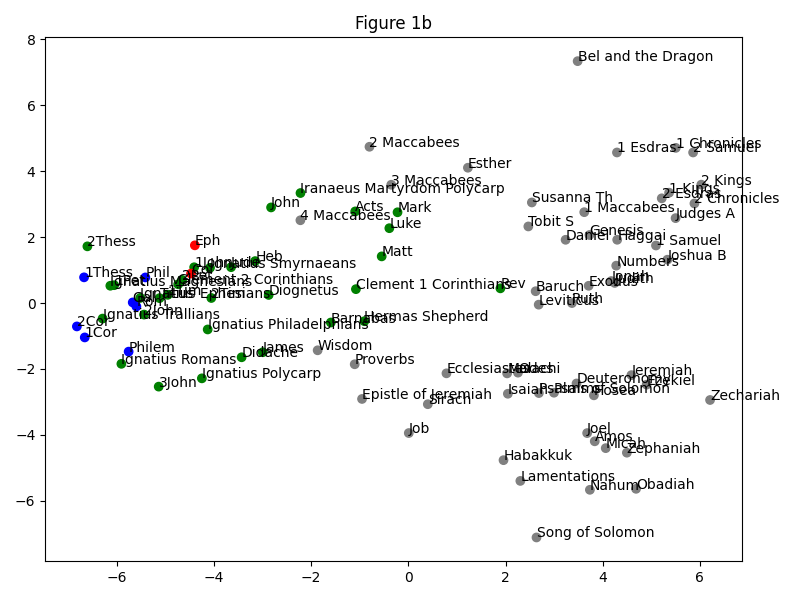
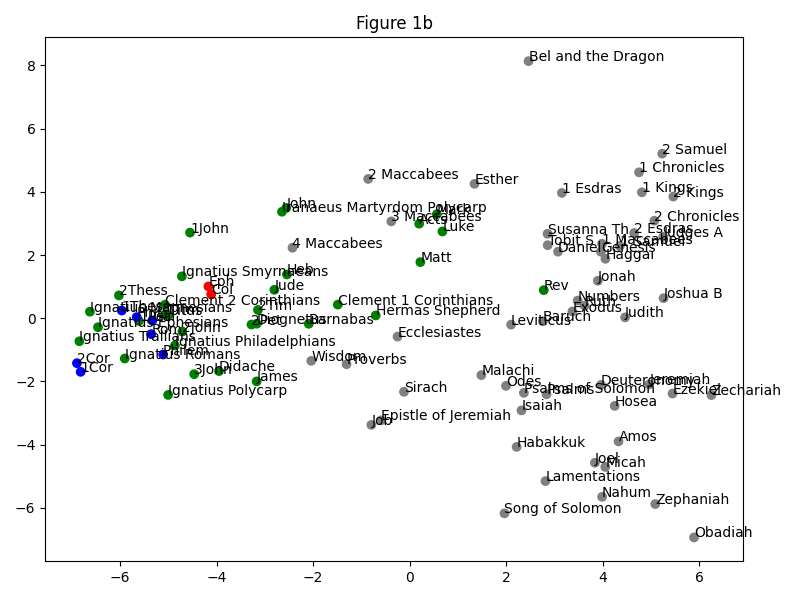
can plot results of analysis with only paul markers

diff --git a/find_paul_markers_1.py b/find_paul_markers_1.py
@@ -17,10 +17,7 @@ for ex_book in excluded_books + excluded_nt_books:
 merge_pauline_texts(book_to_text)
 merge_ignatian_texts(book_to_text)
 
-# removed: 'κύριος', 'εἶπεν', 'ισραηλ', 'κυρίου', 'θεοῦ', 'γῆς', 'θεὸς', 'υἱοὶ', 'ἰδοὺ', 'δαυιδ', 'γῆν', 'υἱὸς', 'βασιλεὺς', 'λέγει', 'ιερουσαλημ', 'βασιλέως', 'υἱῶν', 'κυρίῳ', 'λέγων', 'ἡμέρας', 'ἐγένετο'
-#function_words = ['καὶ', 'ἐν', 'τοῦ', 'ὁ', 'αὐτοῦ', 'εἰς', 'τὸν', 'τὴν', 'τὸ', 'τῷ', 'τῶν', 'δὲ', 'τῆς', 'σου', 'τὰ', 'ἐπὶ', 'οἱ', 'αὐτῶν', 'ὅτι', 'μου', 'ἡ', 'πρὸς', 'τῇ', 'οὐκ', 'τοὺς', 'μὴ', 'ἀπὸ', 'τοῖς', 'ἐκ', 'οὐ', 'αὐτῷ', 'ὡς', 'τὰς', 'αὐτὸν', 'γὰρ', 'ὑμῶν', 'αὐτῆς', 'κατὰ', 'με', 'αὐτοῖς', 'ἡμῶν', 'διὰ', 'μετὰ', 'αὐτοὺς', 'ἐστιν', 'ἐὰν', 'ἕως', 'ἐπ', 'πάντα', 'ἐγὼ', 'ἵνα', 'ἔσται', 'ὑμῖν', 'σε', 'ἢ', 'περὶ', 'τοῦτο', 'σοι', 'ταῖς', 'αἱ', 'εἰ', 'ἐξ', 'ἦν', 'μοι', 'ὑμᾶς', 'οὕτως', 'σὺ', 'οὖν', 'ταῦτα', 'ἐκεῖ', 'μετ', 'ἡμᾶς', 'αὐτόν', 'τί', 'ἀλλὰ', 'νῦν', 'ἔστιν', 'ἂν']
-
-function_words = ['ἔστιν']
+function_words = ['και', 'εν', 'του', 'ο', 'αυτου', 'εις', 'τον', 'την', 'το', 'δε', 'τω', 'των', 'της', 'η', 'σου', 'τα', 'επι', 'οι', 'αυτων', 'οτι', 'μου', 'προς', 'τη', 'μη', 'ουκ', 'τους', 'ου', 'απο', 'αυτον', 'τοις', 'εκ', 'αυτω', 'εστιν', 'γαρ', 'ως', 'τας', 'αυτους', 'υμων', 'αυτης', 'κατα', 'αυτοις', 'με', 'ημων', 'σε', 'δια', 'μετα', 'εγω', 'ην', 'εαν', 'ει', 'παντα', 'σοι', 'εως', 'επ', 'ινα', 'εσται', 'τι', 'υμιν', 'εξ', 'αυτην', 'τουτο', 'αι', 'περι', 'αυτη', 'ταις', 'μοι', 'συ', 'υμας', 'ουτως', 'τις', 'ταυτα', 'ουν', 'παντες', 'εκει', 'μετ', 'αλλα', 'ημας']
 
 """
 Let us set the
@@ -31,13 +28,12 @@ bottom six – roughly the top and bottom quartiles – as ‘Hutchinson markers
 and see where these scores lead us.
 """
 
-# TODO PROBLEM: shouldn't be outputting what it's outputting
 def is_paul_marker(books_and_frequencies):
   sorted_books_and_frequencies = sorted(books_and_frequencies, key=lambda x: x[1])
   print('\t', sorted_books_and_frequencies)
 
-  for i in range(1): # TODO BACK TO 5
-    if sorted_books_and_frequencies[i][0] == 'Paul':
+  for i in range(5):
+    if sorted_books_and_frequencies[i][0] == 'Paul': # TODO check if zero?
       return True
     elif sorted_books_and_frequencies[-i - 1][0] == 'Paul':
       return True
@@ -51,9 +47,6 @@ NORMALIZATION_METHOD = 'zscore'
 # and the word index matches the index of the same word in function_words.
 book_to_normalized_word_frequency = calculate_raw_function_word_frequencies(
   book_to_text, function_words)
-
-print(book_to_text.keys())
-print(book_to_normalized_word_frequency)
 
 books = list(book_to_text.keys())
 

diff --git a/principal_component_analysis_3.py b/principal_component_analysis_3.py
@@ -8,10 +8,10 @@ import matplotlib.pyplot as plt
 from sklearn.decomposition import PCA
 
 """
-Generates Figures 2a and 2b for the thesis.
-2a is the influence of the top 99 words on the two principal component vectors,
+Generates Figures 3a and 3b for the thesis.
+3a is the influence of the top 99 words on the two principal component vectors,
   excluding those which are obviously thematic.
-2b is the results of arranging certain books (NT, a few Sept, and others)
+3b is the results of arranging certain books (NT, a few Sept, and others)
   according to those vectors.
 """
 wanted_septuagint_books = ['Epistle of Jeremiah']
@@ -22,10 +22,9 @@ for ex_book in excluded_books + excluded_nt_books:
   book_to_text.pop(ex_book)
 
 rearrange_pauline_texts(book_to_text)
-# merge_colossians_ephesians_texts(book_to_text) not useful
+#merge_colossians_ephesians_texts(book_to_text) #not useful
 
-# removed: 'κύριος', 'εἶπεν', 'ισραηλ', 'κυρίου', 'θεοῦ', 'γῆς', 'θεὸς', 'υἱοὶ', 'ἰδοὺ', 'δαυιδ', 'γῆν', 'υἱὸς', 'βασιλεὺς', 'λέγει', 'ιερουσαλημ', 'βασιλέως', 'υἱῶν', 'κυρίῳ', 'λέγων', 'ἡμέρας', 'ἐγένετο'
-function_words = ['καὶ', 'ἐν', 'τοῦ', 'ὁ', 'αὐτοῦ', 'εἰς', 'τὸν', 'τὴν', 'τὸ', 'τῷ', 'τῶν', 'δὲ', 'τῆς', 'σου', 'τὰ', 'ἐπὶ', 'οἱ', 'αὐτῶν', 'ὅτι', 'μου', 'ἡ', 'πρὸς', 'τῇ', 'οὐκ', 'τοὺς', 'μὴ', 'ἀπὸ', 'τοῖς', 'ἐκ', 'οὐ', 'αὐτῷ', 'ὡς', 'τὰς', 'αὐτὸν', 'γὰρ', 'ὑμῶν', 'αὐτῆς', 'κατὰ', 'με', 'αὐτοῖς', 'ἡμῶν', 'διὰ', 'μετὰ', 'αὐτοὺς', 'ἐστιν', 'ἐὰν', 'ἕως', 'ἐπ', 'πάντα', 'ἐγὼ', 'ἵνα', 'ἔσται', 'ὑμῖν', 'σε', 'ἢ', 'περὶ', 'τοῦτο', 'σοι', 'ταῖς', 'αἱ', 'εἰ', 'ἐξ', 'ἦν', 'μοι', 'ὑμᾶς', 'οὕτως', 'σὺ', 'οὖν', 'ταῦτα', 'ἐκεῖ', 'μετ', 'ἡμᾶς', 'αὐτόν', 'τί', 'ἀλλὰ', 'νῦν', 'ἔστιν', 'ἂν']
+function_words = ['και', 'εν', 'του', 'ο', 'αυτου', 'εις', 'τον', 'την', 'το', 'δε', 'τω', 'των', 'της', 'η', 'σου', 'τα', 'επι', 'οι', 'αυτων', 'οτι', 'μου', 'προς', 'τη', 'μη', 'ουκ', 'τους', 'ου', 'απο', 'αυτον', 'τοις', 'εκ', 'αυτω', 'εστιν', 'γαρ', 'ως', 'τας', 'αυτους', 'υμων', 'αυτης', 'κατα', 'αυτοις', 'με', 'ημων', 'σε', 'δια', 'μετα', 'εγω', 'ην', 'εαν', 'ει', 'παντα', 'σοι', 'εως', 'επ', 'ινα', 'εσται', 'τι', 'υμιν', 'εξ', 'αυτην', 'τουτο', 'αι', 'περι', 'αυτη', 'ταις', 'μοι', 'συ', 'υμας', 'ουτως', 'τις', 'ταυτα', 'ουν', 'παντες', 'εκει', 'μετ', 'αλλα', 'ημας']
 
 NORMALIZATION_METHOD = 'zscore'
 

diff --git a/principal_component_analysis_2.py b/principal_component_analysis_2.py
@@ -21,7 +21,7 @@ for ex_book in excluded_books + excluded_nt_books:
   book_to_text.pop(ex_book)
 
 # removed: 'κύριος', 'εἶπεν', 'ισραηλ', 'κυρίου', 'θεοῦ', 'γῆς', 'θεὸς', 'υἱοὶ', 'ἰδοὺ', 'δαυιδ', 'γῆν', 'υἱὸς', 'βασιλεὺς', 'λέγει', 'ιερουσαλημ', 'βασιλέως', 'υἱῶν', 'κυρίῳ', 'λέγων', 'ἡμέρας', 'ἐγένετο'
-function_words = ['καὶ', 'ἐν', 'τοῦ', 'ὁ', 'αὐτοῦ', 'εἰς', 'τὸν', 'τὴν', 'τὸ', 'τῷ', 'τῶν', 'δὲ', 'τῆς', 'σου', 'τὰ', 'ἐπὶ', 'οἱ', 'αὐτῶν', 'ὅτι', 'μου', 'ἡ', 'πρὸς', 'τῇ', 'οὐκ', 'τοὺς', 'μὴ', 'ἀπὸ', 'τοῖς', 'ἐκ', 'οὐ', 'αὐτῷ', 'ὡς', 'τὰς', 'αὐτὸν', 'γὰρ', 'ὑμῶν', 'αὐτῆς', 'κατὰ', 'με', 'αὐτοῖς', 'ἡμῶν', 'διὰ', 'μετὰ', 'αὐτοὺς', 'ἐστιν', 'ἐὰν', 'ἕως', 'ἐπ', 'πάντα', 'ἐγὼ', 'ἵνα', 'ἔσται', 'ὑμῖν', 'σε', 'ἢ', 'περὶ', 'τοῦτο', 'σοι', 'ταῖς', 'αἱ', 'εἰ', 'ἐξ', 'ἦν', 'μοι', 'ὑμᾶς', 'οὕτως', 'σὺ', 'οὖν', 'ταῦτα', 'ἐκεῖ', 'μετ', 'ἡμᾶς', 'αὐτόν', 'τί', 'ἀλλὰ', 'νῦν', 'ἔστιν', 'ἂν']
+function_words = ['και', 'εν', 'του', 'ο', 'αυτου', 'εις', 'τον', 'την', 'το', 'δε', 'τω', 'των', 'της', 'η', 'σου', 'τα', 'επι', 'οι', 'αυτων', 'οτι', 'μου', 'προς', 'τη', 'μη', 'ουκ', 'τους', 'ου', 'απο', 'αυτον', 'τοις', 'εκ', 'αυτω', 'εστιν', 'γαρ', 'ως', 'τας', 'αυτους', 'υμων', 'αυτης', 'κατα', 'αυτοις', 'με', 'ημων', 'σε', 'δια', 'μετα', 'εγω', 'ην', 'εαν', 'ει', 'παντα', 'σοι', 'εως', 'επ', 'ινα', 'εσται', 'τι', 'υμιν', 'εξ', 'αυτην', 'τουτο', 'αι', 'περι', 'αυτη', 'ταις', 'μοι', 'συ', 'υμας', 'ουτως', 'τις', 'ταυτα', 'ουν', 'παντες', 'εκει', 'μετ', 'αλλα', 'ημας']
 
 NORMALIZATION_METHOD = 'zscore'
 

diff --git a/find_paul_markers_3.py b/find_paul_markers_3.py
@@ -1,0 +1,45 @@
+from read_text_utils import read_texts
+from general_utils import SEPTUAGINT_BOOKS
+from function_word_utils import calculate_normalized_function_word_frequencies
+from scatter_plot_utils import generate_scatter_plot, generate_component_plot
+from rearrange_texts_utils import rearrange_pauline_texts, merge_colossians_ephesians_texts
+import pandas as pd
+import matplotlib.pyplot as plt
+from sklearn.decomposition import PCA
+
+"""
+Generates Figures 5a and 5b for the thesis.
+5a is the influence of the top Paul markers on the two principal component vectors,
+5b is the results of arranging certain books (NT, a few Sept, and others)
+  according to those vectors.
+"""
+wanted_septuagint_books = ['Epistle of Jeremiah']
+excluded_nt_books = ['Matthew', 'Mark', 'Luke', 'John', 'Acts']
+excluded_books = [b for b in SEPTUAGINT_BOOKS if b not in wanted_septuagint_books]
+book_to_text = read_texts()
+for ex_book in excluded_books + excluded_nt_books:
+  book_to_text.pop(ex_book)
+
+# get rid of uselessly short books?
+for book in set(book_to_text.keys()):
+  if book not in ['Ephesians', 'Colossians'] and book_to_text[book].count(' ') < 1999:
+    book_to_text.pop(book)
+
+#rearrange_pauline_texts(book_to_text)
+#merge_colossians_ephesians_texts(book_to_text) #not useful
+
+function_words = ['και', 'το', 'δε', 'τω', 'η', 'οτι', 'μου', 'ου', 'γαρ', 'τας', 'εγω', 'ην', 'ει', 'τι', 'υμας', 'ουτως', 'παντες', 'αλλα']
+
+NORMALIZATION_METHOD = 'zscore'
+
+# book_to_normalized_word_frequency: a 2d List[book index][word index]
+# where the book index matches the index of the same book in book_to_word_counts and book_to_text
+# and the word index matches the index of the same word in function_words.
+book_to_normalized_word_frequency = calculate_normalized_function_word_frequencies(
+  book_to_text, function_words, NORMALIZATION_METHOD)
+
+generate_component_plot(book_to_normalized_word_frequency, function_words, title="Figure 5a")
+plt.show()
+
+generate_scatter_plot(book_to_normalized_word_frequency, book_to_text.keys(), title="Figure 5b")
+plt.show()

diff --git a/find_paul_markers_2.py b/find_paul_markers_2.py
@@ -3,6 +3,7 @@ from read_text_utils import read_texts
 from general_utils import SEPTUAGINT_BOOKS
 import matplotlib.pyplot as plt
 from general_plot_utils import get_label_color
+from rearrange_texts_utils import add_merged_pauline_text
 
 #WORD = 'καὶ'
 
@@ -13,13 +14,15 @@ book_to_text = read_texts()
 for ex_book in excluded_books + excluded_nt_books:
   book_to_text.pop(ex_book)
 
+add_merged_pauline_text(book_to_text)
+
 colors = [get_label_color(b) for b in book_to_text.keys()]
 
 # eph/col interesting: ἐν, τοῦ
 #interesting: 'τὰς', 'γὰρ',
 #['καὶ', 'ἐν', 'τοῦ', 'ὁ', 'αὐτοῦ', 'εἰς', 'τὸν', 'τὴν', 'τὸ', 'τῷ', 'τῶν', 'δὲ', 'τῆς', 'τὰ', 'ἐπὶ', 'οἱ', 'αὐτῶν', 'ὅτι', 'πρὸς', 'τῇ', 'οὐκ', 'τοὺς', 'μὴ', 'ἀπὸ', 'τοῖς', 'ἐκ', 'οὐ', 'αὐτῷ', 'ὡς', 'τὰς', 'γὰρ', 'ὑμῶν', 'κατὰ', 'ἡμῶν', 'διὰ', 'μετὰ', 'ἐστιν', 'ἵνα', 'περὶ', 'τοῦτο', 'ταῖς', 'οὖν', 'ταῦτα', 'ἀλλὰ', 'νῦν']
 
-for WORD in ['ἀλλὰ']:#['καὶ', 'ἐν', 'τοῦ', 'αὐτοῦ', 'εἰς', 'τὸν', 'τῶν', 'τῆς', 'οἱ', 'ὅτι', 'τῇ', 'οὐκ', 'μὴ', 'ἐκ', 'διὰ', 'ἀλλὰ']:
+for WORD in ['και', 'το', 'δε', 'τω', 'η', 'οτι', 'μου', 'ου', 'γαρ', 'τας', 'εγω', 'ην', 'ει', 'τι', 'υμας', 'ουτως', 'παντες', 'αλλα']:
   frequencies = calculate_raw_function_word_frequencies(book_to_text, [WORD])
 
   fig = plt.figure(1, figsize=(8, 6))

diff --git a/read_text_utils.py b/read_text_utils.py
@@ -1,9 +1,9 @@
 import read_nt_text_utils
 import os
-from general_utils import FILE_TYPE_SUFFIX, NORMALIZED_FILE_SUFFIX, TEXT_DIRECTORY
-from text_normalization_utils import remove_punctuation, strip_accents
+from general_utils import FILE_TYPE_SUFFIX
+import text_normalization_utils
 
-# Returns dictionary of book name to all text in the book, including accents.
+# Returns dictionary of book name to all text in the book, not including accents.
 # Includes a space between each pair of words.  Everything is lower-case and punctuation-free.
 # Includes the Septuagint and various other ancient texts.
 def read_texts():
@@ -29,10 +29,6 @@ def read_text_from_directory(directory):
 def normalize(book_to_text):
   book_to_normalized_text = {}
   for book, text in book_to_text.items():
-    book_to_normalized_text[book] = remove_punctuation(text).lower().strip()
-    #for c in book_to_normalized_text[book]:
-    #  # check all resulting characters to make sure they're simple greek letters
-    #  if ord(strip_accents(c)) not in range(945, 970) and c != ' ':
-    #    print('ERROR:' + c + ' ' + book)
+    book_to_normalized_text[book] = text_normalization_utils.normalize(text).strip()
 
   return book_to_normalized_text

diff --git a/rearrange_texts_utils.py b/rearrange_texts_utils.py
@@ -20,10 +20,13 @@ def merge_ignatian_texts(book_to_text):
 
   book_to_text['Ignatius'] = ' '.join(all_ignatius)
 
-def merge_pauline_texts(book_to_text):
+def add_merged_pauline_text(book_to_text):
   all_paul = ' '.join([book_to_text['Romans'], book_to_text['1 Corinthians'], book_to_text['2 Corinthians'], book_to_text['Galatians'], book_to_text['Philippians'], book_to_text['1 Thessalonians'], book_to_text['Philemon']])
 
   book_to_text['Paul'] = all_paul
+
+def merge_pauline_texts(book_to_text):
+  add_merged_pauline_text(book_to_text)
 
   del book_to_text['Romans']
   del book_to_text['1 Corinthians']

diff --git a/function_word_utils.py b/function_word_utils.py
@@ -122,7 +122,4 @@ def calculate_raw_function_word_frequencies(book_to_text, function_words):
     words = book_to_text[book].split(' ')
     book_to_word_counts[index] = Counter(words)
 
-    if (book == 'Paul'):
-      print(book_to_word_counts[index])
-
   return _find_book_to_unit_frequencies(book_to_word_counts, function_words)
